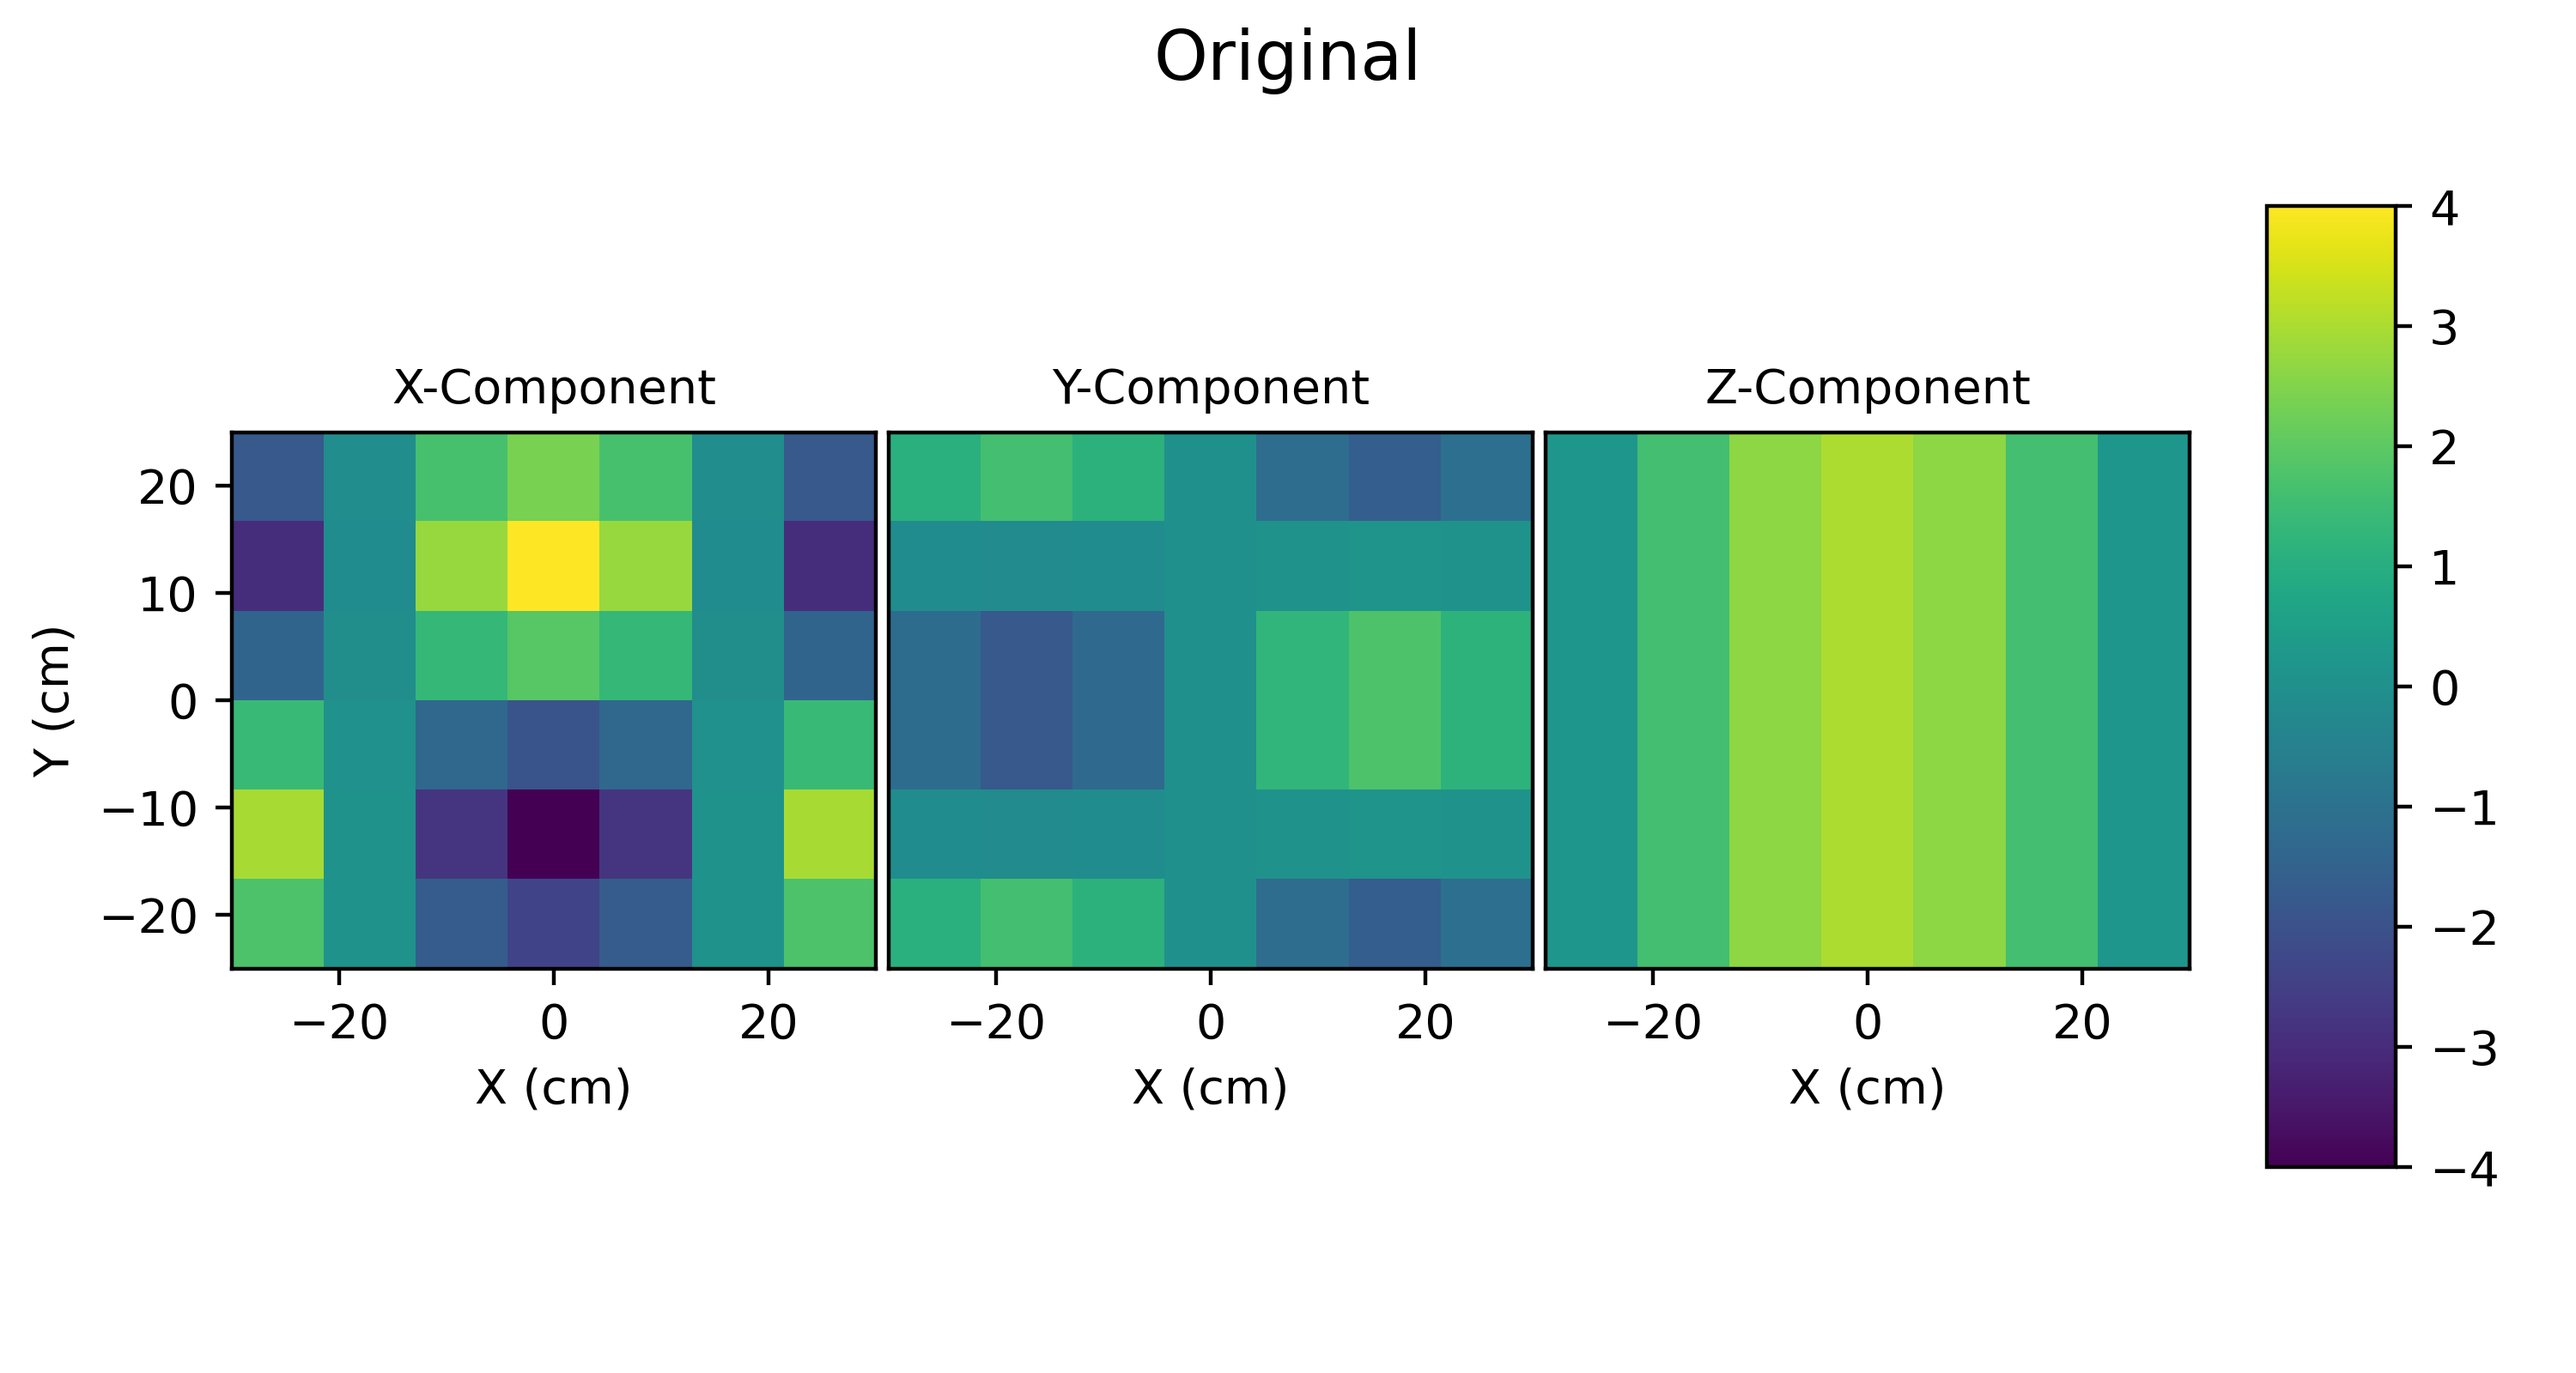
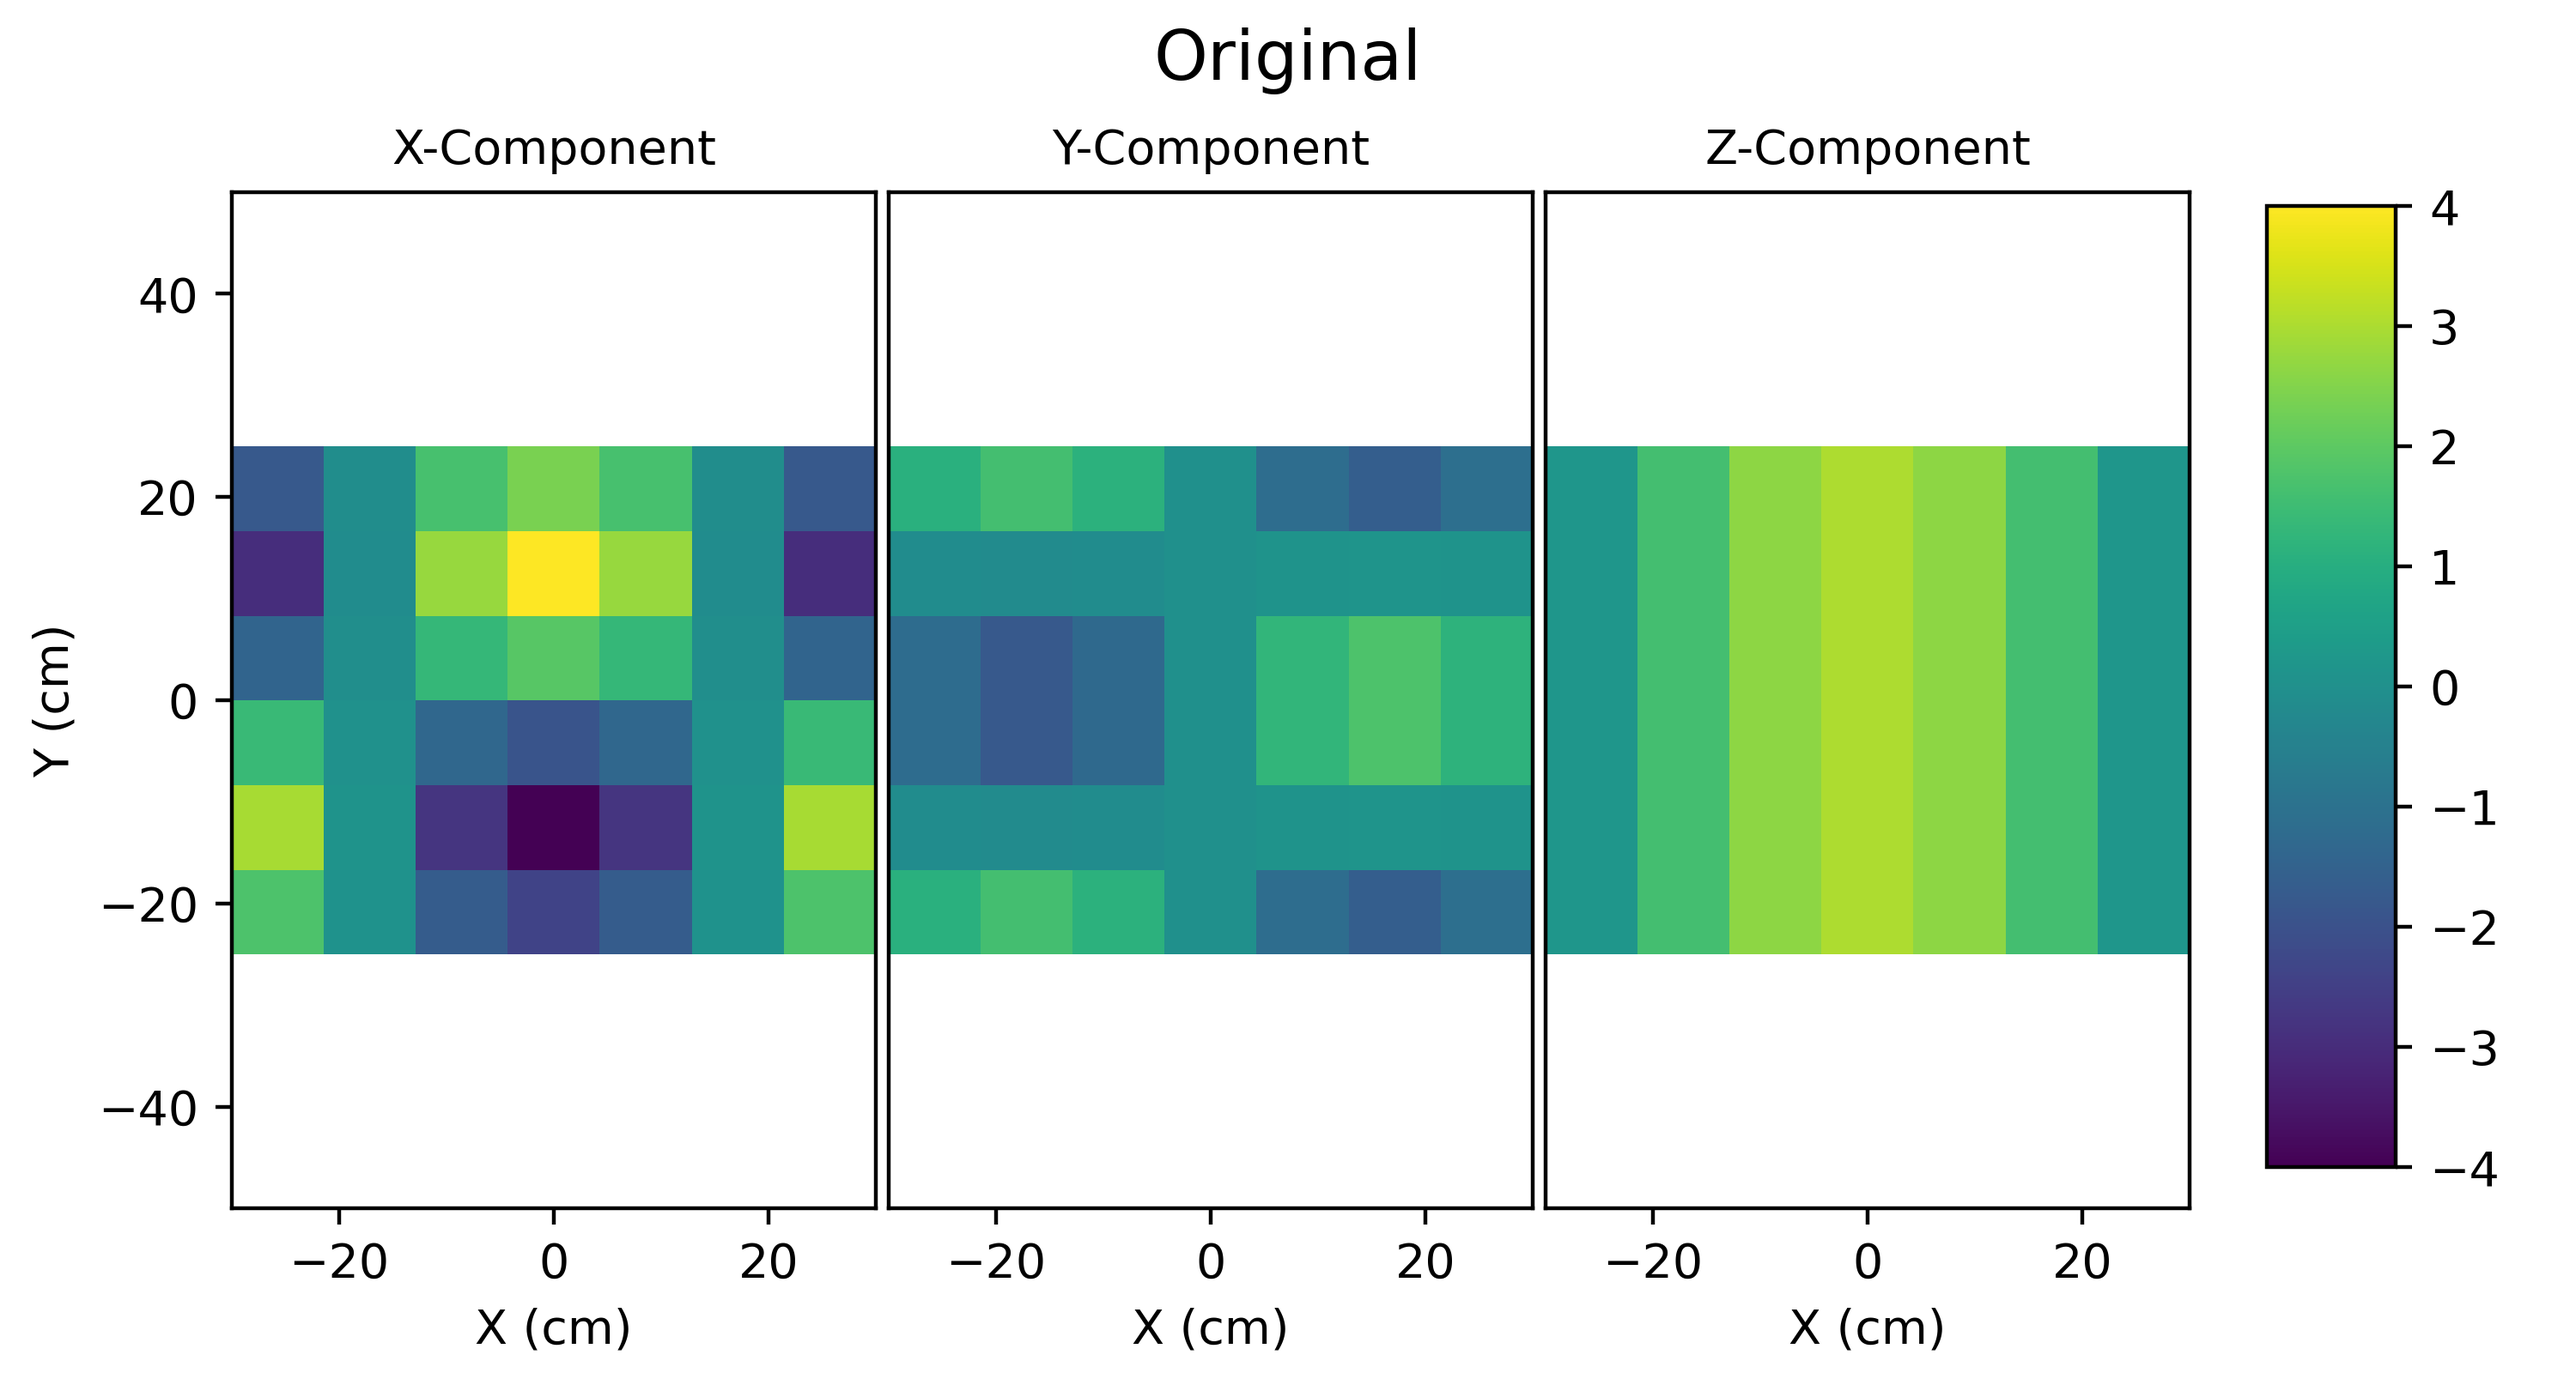
Fix manual plots.

diff --git a/examples/features/fields/maps_bdsim/Compare2D.py b/examples/features/fields/maps_bdsim/Compare2D.py
@@ -1,17 +1,41 @@
+import matplotlib.pyplot as _plt
 import pybdsim
 
 def Compare2D(original, nearest, linear, linearmag, cubic):
     kws = {'vmin':-4, 'vmax':4}
     pybdsim.Field.Plot2DXYFxFyFz(original, 'Original', **kws)
+    # for this one we shrink the limits
+    axs = _plt.gcf().get_axes()
+    for i in range(3):
+        axs[i].set_ylim(-50,50)
+    Save(original)
+    
     pybdsim.Field.Plot2DXYFxFyFz(nearest, 'Nearest', **kws)
+    Save(nearest)
+    
     pybdsim.Field.Plot2DXYFxFyFz(linear, 'Linear', **kws)
+    Save(linear)
+    
     pybdsim.Field.Plot2DXYFxFyFz(linearmag, 'Linear Mag', **kws)
+    Save(linearmag)
+    
     pybdsim.Field.Plot2DXYFxFyFz(cubic, 'Cubic', **kws)
-    return
+    Save(cubic)
 
-if __name__ == "__main__":
+def _FN(filename):
+    fn = filename.split('.')[0]+".png"
+    print(fn)
+    return fn
+
+def Save(filename):
+    _plt.savefig(_FN(filename), dpi=400)
+
+def DoIt():
     Compare2D("2dexample.dat.gz",
               "2d_interpolated_nearest.dat",
               "2d_interpolated_linear.dat",
               "2d_interpolated_linear_mag.dat",
               "2d_interpolated_cubic.dat")
+
+if __name__ == "__main__":
+    DoIt()
